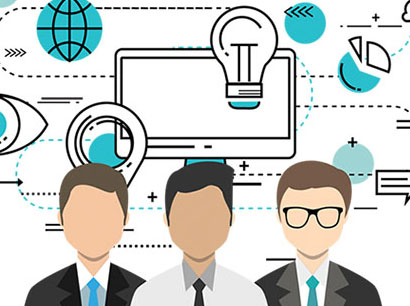
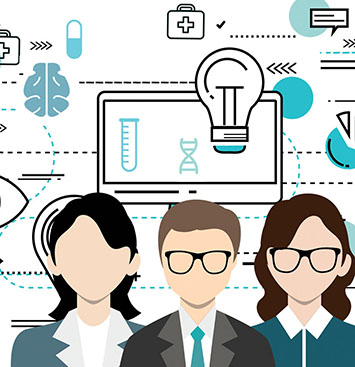
changes
banner img change

diff --git a/corporate.css b/corporate.css
@@ -4,14 +4,14 @@
 }
 .banner_img_business{
 	background:url('img/banner_business.jpg') no-repeat;
-	height:420px;
-	margin:-10px 0 0 0;
+	height:380px;
+	margin:-30px 0 0 0;
 
 
 }
 
 .white_part{
-	padding:50px 10px 20px 10px;
+	padding:0 10px 20px 10px;
 }
 .key_head{
 	color:#7C7C7C;
@@ -35,9 +35,12 @@ font-size:26px;
 
 }
 /*==============join_part===============*/
+.green_background{
+
+}
 .join_part{
 	background:#22c090;
-	margin:55px 0 0 20px;
+	margin:5px 0 0 20px;
 	width:465px;
 	padding:0 0 0 0;
 }
@@ -50,9 +53,9 @@ font-size:26px;
 /*=============form part=============*/
 .form_head{
 	color:#676767;
-	font-size:24px;
+	font-size:26px;
 	font-weight:bold;
-	margin:20px 0 20px 0;
+	margin:10px 0 10px 0;
 }
 .control_style{
 	height:46px;
@@ -75,16 +78,29 @@ font-size:26px;
 
 /*==================media query===============*/
 @media screen and (min-width:100px) and (max-width:767px){
+	.new_join_btn{
+		border-radius:0!important;
+		width:100%!important;
+		height:55px!important;
+		margin:0!important;
+		font-size:18px;
+	}
+	.footer_btn_part1{
+		padding:0!important;
+		background:#fff!important;
+		width:360px!important;
+	}
 	.banner_img_business{
 	background:url('img/banner_business_mob.jpg') no-repeat;
-	height:300px;
-	margin:10px 0 0 0;
+	
+	height:350px;
+	margin:-10px 0 0 0;
 
 }
 	
 	
 	.white_part{
-	padding:10px 10px 20px 10px;
+	padding:0 10px 20px 10px;
 }
 .key_head{
 	color:#7C7C7C;
@@ -103,14 +119,13 @@ font-size:26px;
 }
 /*==============join_part===============*/
 .join_part{
-	background:#22c090;
-	margin:0 0 0 0;
+		margin:0 0 0 0;
 	width:400px;
 	padding:10px 0 10px 5px;
 }
 .join_head{
 	
-	margin:0 50px 0 0;
+		margin:0 50px 0 0;
 	color:#fff;
 	font-size:16px;
 	font-weight:bold;

diff --git a/doctor.css b/doctor.css
@@ -4,14 +4,14 @@
 }
 .banner_img_business{
 	background:url('img/doctor_banner.jpg') no-repeat;
-	height:420px;
+	height:370px;
 	margin:-10px 0 0 0;
 
 
 }
 
 .white_part{
-	padding:50px 10px 20px 10px;
+	padding:0 10px 20px 10px;
 }
 .key_head{
 	color:#1A7FB5;
@@ -37,7 +37,7 @@ font-size:26px;
 /*==============join_part===============*/
 .join_part{
 	background:#1A7FB5;
-	margin:55px 0 0 20px;
+	margin:8px 0 0 20px;
 	width:465px;
 	padding:0 0 0 0;
 }
@@ -79,8 +79,24 @@ font-size:26px;
 
 /*==================media query===============*/
 @media screen and (min-width:100px) and (max-width:767px){
+	
+	.new_join_btn{
+		border-radius:0!important;
+		width:100%!important;
+		height:55px!important;
+		margin:0!important;
+		font-size:18px;
+	}
+	.footer_btn_part1{
+		padding:0!important;
+		background:#fff!important;
+		width:360px!important;
+	}
+	
+	
+	
 	.banner_img_business{
-	background:url('img/doctor_banner_mob.jpg') no-repeat;
+	background:url('img/doctor_banner_mob1.jpg') no-repeat;
 	height:300px;
 	margin:10px 0 0 0;
 
@@ -88,7 +104,7 @@ font-size:26px;
 	
 	
 	.white_part{
-	padding:10px 10px 20px 10px;
+	padding:5px 10px 20px 10px;
 }
 .key_head{
 	color:#1A7FB5;
@@ -114,7 +130,7 @@ font-size:26px;
 }
 .join_head{
 	
-	margin:0 50px 0 0;
+		margin:0 50px 0 0;
 	color:#fff;
 	font-size:16px;
 	font-weight:bold;

diff --git a/corporate.html b/corporate.html
@@ -25,7 +25,7 @@
 			<i class="fa fa-chevron-circle-up fa-4x" aria-hidden="true"></i>
 		</button>
 	</div>
-	
+		
 <!-- navbar -->
 <div class="container">
 <nav class="navbar navbar-default navar_mystyle">
@@ -121,7 +121,9 @@
 		<div class="row">
 			
 				<div class="col-sm-12 join_part text-center">
-					<p class="join_head">Join the Eureka Forbes Good Health Family</p>
+					<p class="join_head">Join the Eureka Forbes Good Health Family
+						
+					</p>
 				</div>
 		</div>
 		
@@ -319,6 +321,16 @@
 		
 	</div>
 
+<div class="container footer_btn_part footer_btn_part1">
+	<div class="row ">
+
+		<div class="col-xs-12 ">
+			<button class="btn btn-info footer_btn new_join_btn">Request for Trial</button>
+		</div>
+		
+	</div>
+
+</div>
 
 	
 

diff --git a/doctor.html b/doctor.html
@@ -118,9 +118,9 @@
 		
 		</div>
 	<div class="col-sm-5">
-		<div class="row">
+		<div class="row text-center">
 			
-				<div class="col-sm-12 join_part text-center">
+				<div class="col-sm-12 join_part ">
 					<p class="join_head">Join the Eureka Forbes Good Health Family</p>
 				</div>
 		</div>
@@ -318,7 +318,16 @@
   </div>
 		
 	</div>
+<div class="container footer_btn_part footer_btn_part1">
+	<div class="row ">
 
+		<div class="col-xs-12 ">
+			<button class="btn btn-info footer_btn new_join_btn">Join EFGH</button>
+		</div>
+		
+	</div>
+
+</div>
 
 	
 
